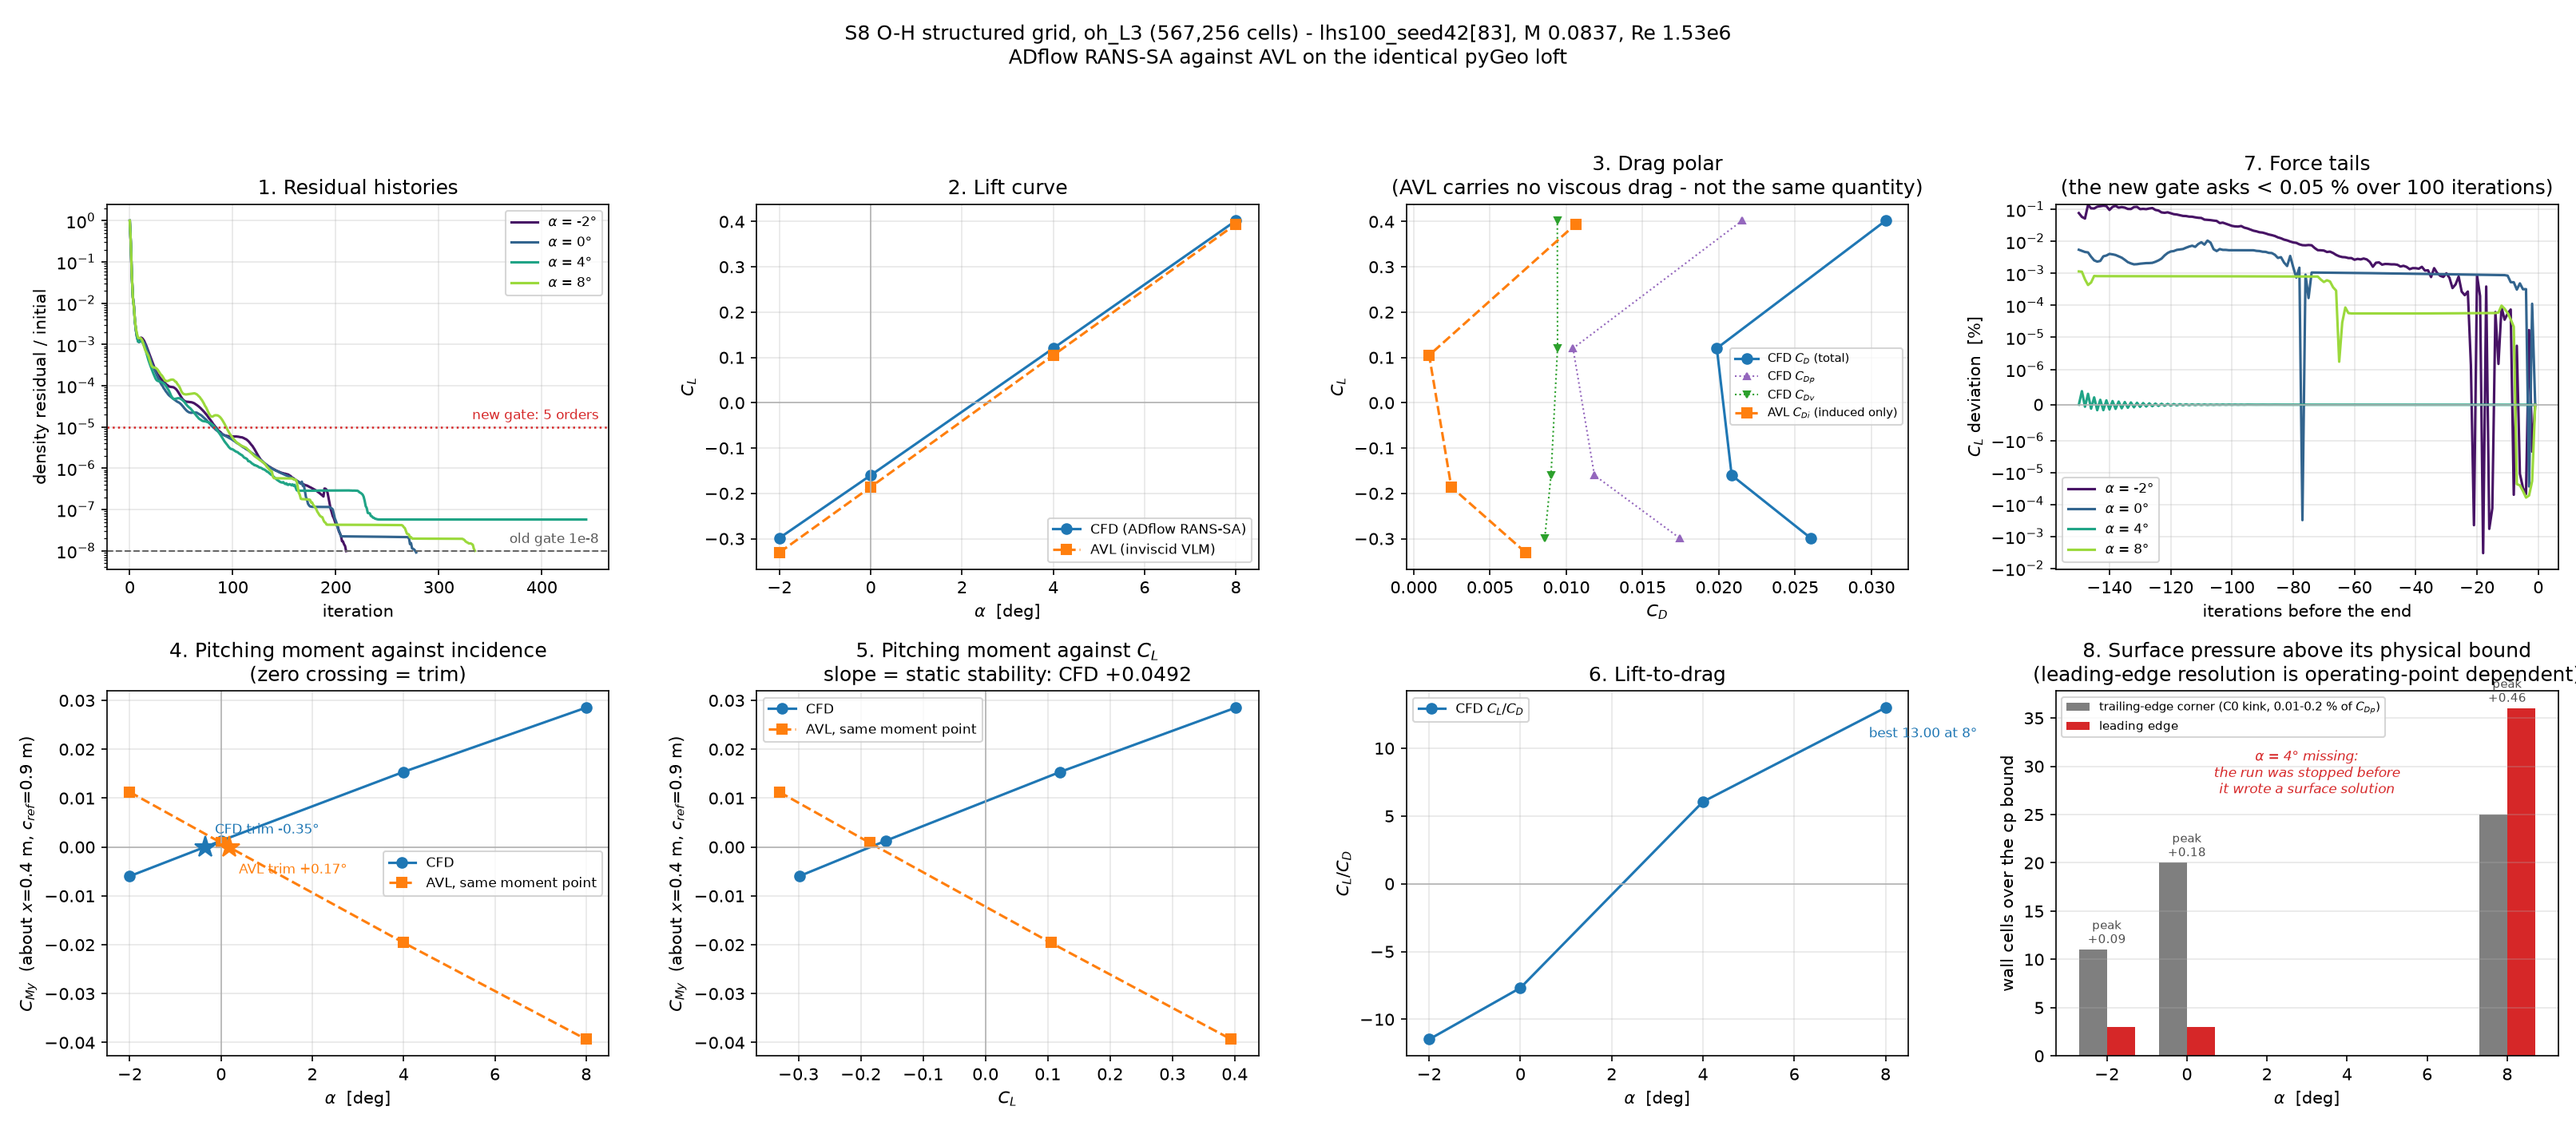
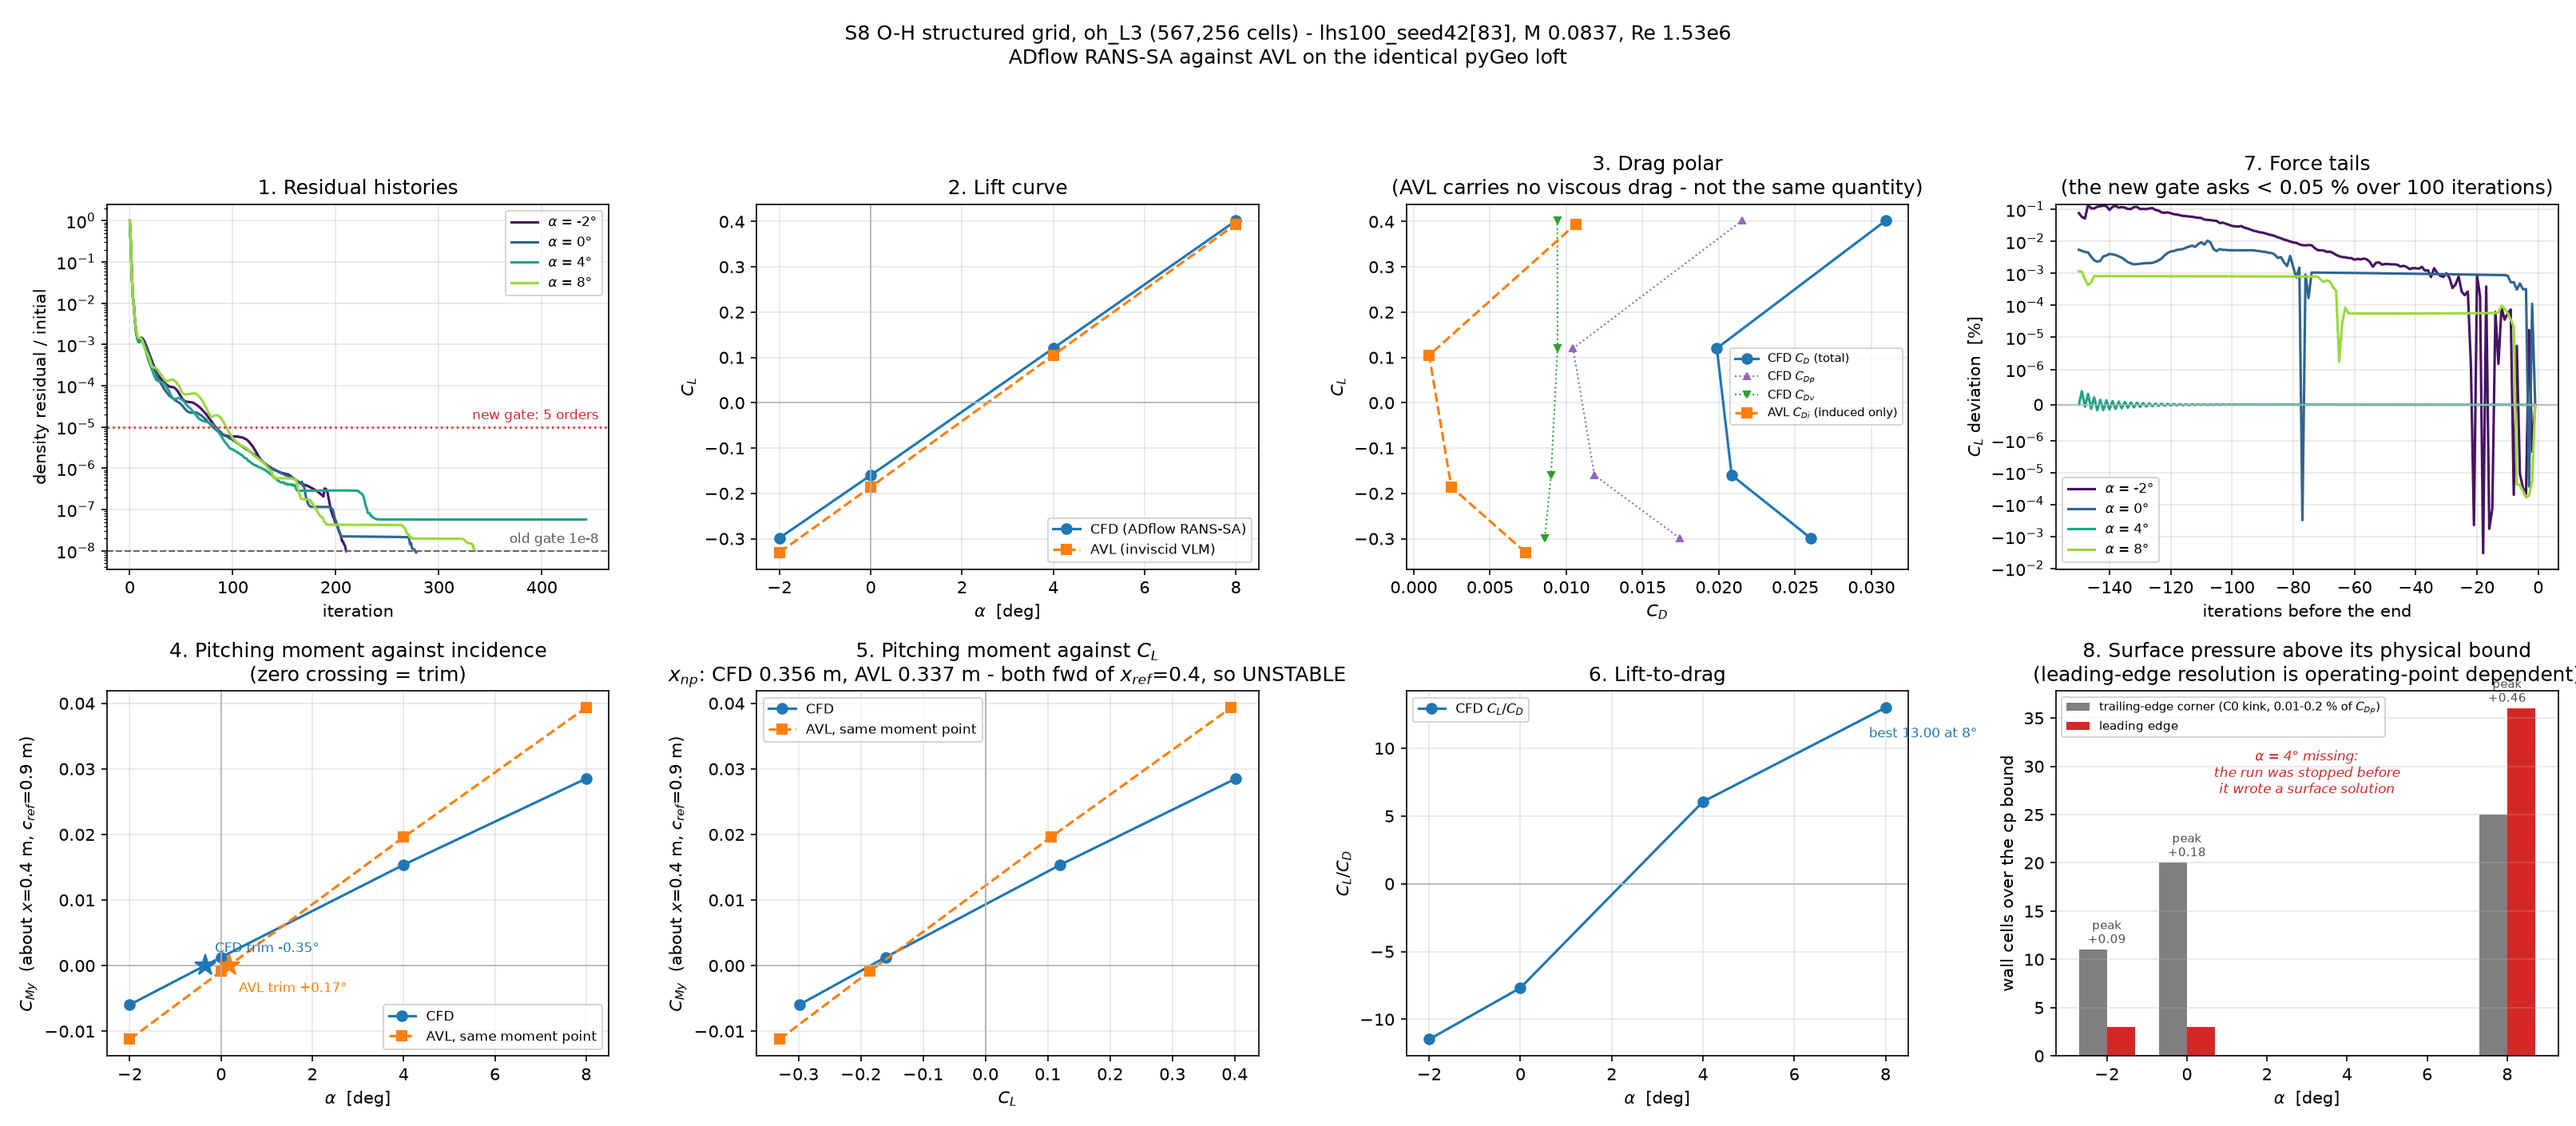
Defect 17: the moment "disagreement" was two sign errors of mine
CFD and AVL do not disagree.  Both say the wing is statically UNSTABLE about
x = 0.4 m and they agree on the neutral point to 3.7 per cent of MAC.

Caught by the principal investigator noticing the two Cm curves were mirror
images about zero -- the signature of a sign error, not of a physics
disagreement.

1. I took ADflow's CMy, the raw +y moment, as nose-down positive.  That holds
   when the nose points +x.  Here the leading edge is at x ~ 0.000 and the
   trailing edge at x ~ 0.867, so the nose points toward -x, a +y rotation
   lifts the nose, and Cm_aero = +CMy.  The flip I applied to AVL inverted a
   real agreement.
2. x_np = x_ref - slope*c, not x_ref + slope*c.  That inverted it again.

Settled convention-free by integrating -cp*n dA and r x dF over the wall:
x_np = 0.3561 m from the raw field, against 0.3557 m implied by ADflow's own
CMy and 0.3359 m reported by AVL.  The centre of pressure moves forward with
lift, 0.3818 m at alpha -2 to 0.3367 m at alpha 8, which is instability read
straight off the pressure.

ADflow was right throughout; only my reading of it was wrong.

Design consequence: index 83's neutral point sits about 0.05 m forward of the
0.4 m reference, so if that is the intended CG the aircraft is unstable in
pitch by roughly 9 per cent of MAC.

Claude-Session: https://claude.ai/code/session_01GTUHMSPavj1aLcb8DSfNxU

diff --git a/AERIS_MESH_STUDY/04_strategy_studies/S8_oh_structured/plot_sweep.py b/AERIS_MESH_STUDY/04_strategy_studies/S8_oh_structured/plot_sweep.py
@@ -15,7 +15,7 @@ Six panels, chosen because each answers a question the table cannot:
 4. **Moment against alpha.**  Where the wing trims, read directly in degrees.
    The zero crossing is the trim angle and it is what a designer asks for first.
 5. **Moment against CL.**  The same data on the axis whose SLOPE is static
-   stability.  This is where CFD and AVL disagree on the sign, and the two
+   stability.  The two
    panels are kept separate because they answer different questions: panel 4
    asks "where does it trim", panel 5 asks "is it stable".
 6. **Lift-to-drag.**  The number a design actually cares about.
@@ -114,7 +114,13 @@ def main() -> int:
         if not matched_reference:
             acm = acm + np.array([avl[a]["cl"] for a in va]) * (0.4 - 0.0) / AVL_CREF
         acm = acm * AVL_CREF / CFD_CREF
-        acm = -acm      # AVL Cm is nose-up positive; ADflow CMy is the +y moment (nose-down)
+        # NO sign flip.  This carried one for a while and it was wrong.  In the
+        # AERIS frame the leading edge sits at x ~ 0 and the trailing edge at
+        # x ~ 0.867, so the NOSE points toward -x.  A rotation about +y sends
+        # x_hat to -z_hat, which drops the +x end (the tail) and lifts the -x
+        # end (the nose).  So a positive +y moment is NOSE UP here, and
+        # ADflow's CMy is already the nose-up pitching moment: Cm_aero = +CMy.
+        # Flipping it turned an agreement into a mirror image about zero.
     else:
         acm = np.array([])
 
@@ -192,10 +198,18 @@ def main() -> int:
                 label="AVL, " + ("same moment point" if matched_reference
                                  else "arm transferred to x=0.4"))
     slope = np.polyfit(cl, cmy, 1)[0]
+    # Cm(x_ref) = Cm_np + CL*(x_ref - x_np)/c, so x_np = x_ref - slope*c.
+    # This was written x_ref + slope*c, which put the neutral point on the wrong
+    # side of the reference and inverted the stability verdict.
+    x_np_cfd = 0.4 - slope * CFD_CREF
+    x_np_avl = 0.4 - np.polyfit(acl, acm, 1)[0] * CFD_CREF if va else None
     a3.axhline(0, color="0.7", lw=0.8); a3.axvline(0, color="0.7", lw=0.8)
     a3.set_xlabel(r"$C_L$"); a3.set_ylabel(r"$C_{My}$  (about $x$=0.4 m, $c_{ref}$=0.9 m)")
-    a3.set_title(f"5. Pitching moment against $C_L$\n"
-                 f"slope = static stability: CFD {slope:+.4f}")
+    a3.axvline(0, color="0.7", lw=0.8)
+    a3.set_title(
+        f"5. Pitching moment against $C_L$\n"
+        f"$x_{{np}}$: CFD {x_np_cfd:.3f} m, AVL {x_np_avl:.3f} m - both fwd of "
+        f"$x_{{ref}}$=0.4, so UNSTABLE")
     a3.legend(fontsize=8); a3.grid(alpha=0.3)
 
     # 6 lift-to-drag

diff --git a/AERIS_MESH_STUDY/00_governance/decisions/ADR-0019-s8-lift-axis-and-le-spacing.md b/AERIS_MESH_STUDY/00_governance/decisions/ADR-0019-s8-lift-axis-and-le-spacing.md
@@ -253,3 +253,54 @@ loft — the gap closing monotonically from 0.032 at alpha -2 to 0.0075 at alpha
 from one respacing. No drag or moment figure in this sweep may be quoted as
 converged, and the grid-convergence study that would settle it still does not fit
 on this host.
+
+## Correction, 2026-09-05: defect 17 — the moment "disagreement" was mine
+
+The addendum above reported that CFD and AVL disagree on the sign of static
+stability. **They do not.** Both say the wing is statically unstable about
+x = 0.4 m, and they agree on the neutral point to 3.7 per cent of MAC.
+
+The principal investigator caught it by looking at the plot and noticing the two
+Cm curves were mirror images about zero — which is what a sign error looks like,
+and what a physics disagreement does not.
+
+Two errors compounded:
+
+1. **Nose direction.** I took ADflow's `CMy`, the raw +y moment, to be nose-down
+   positive. That holds when the nose points +x. In the AERIS frame the leading
+   edge is at x ≈ 0.000 and the trailing edge at x ≈ 0.867, so the **nose points
+   toward −x**. A rotation about +y sends x̂ → −ẑ, dropping the tail and lifting
+   the nose, so **positive M_y is nose UP** and `Cm_aero = +CMy`. The sign flip I
+   applied to AVL's Cm "to match ADflow" inverted a real agreement.
+2. **Neutral-point transfer.** `x_np = x_ref − slope·c`, not `x_ref + slope·c`.
+   That inverted the verdict a second time and moved the CFD neutral point
+   0.089 m to the wrong side of the reference.
+
+Settled convention-free, by integrating `-cp n dA` and `r × dF` over the wall and
+taking `x_np = -d(M_y about the origin)/d(F_z)` — no sign convention, no transfer:
+
+| | x_np |
+|---|---|
+| CFD, raw integration | **0.3561 m** |
+| CFD, from ADflow's reported CMy | 0.3557 m |
+| AVL, from its four points | 0.3372 m |
+| AVL, its own reported `x_np` | 0.3359 m |
+
+The centre of pressure moves **forward** with increasing lift — 0.3818 m at
+alpha −2 to 0.3367 m at alpha 8 — which is instability read directly off the
+pressure field.
+
+ADflow's number was right the whole time; only my reading of it was wrong. RANS
+and a vortex-lattice method agreeing on neutral point to 3.7 per cent of MAC is
+a good cross-check result.
+
+**Design consequence.** Geometry index 83 has its neutral point about 0.05 m
+forward of the 0.4 m moment reference. If 0.4 m is intended as the CG, this
+aircraft is statically unstable in pitch by roughly 9 per cent of MAC. That is a
+design input now, not a solver artefact — and it is a statement about index 83
+alone.
+
+**Method note.** The convention-free check cost one short script and settled in
+minutes what two codes' conventions had confused for hours. Where a sign or a
+reference is in question, integrate the field directly rather than reconciling
+two reporting conventions.
